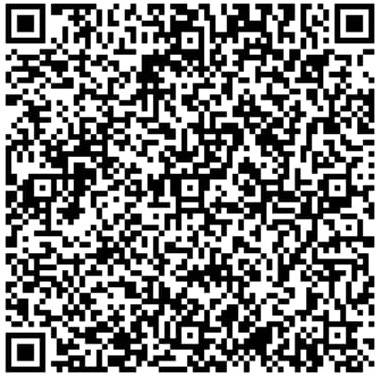
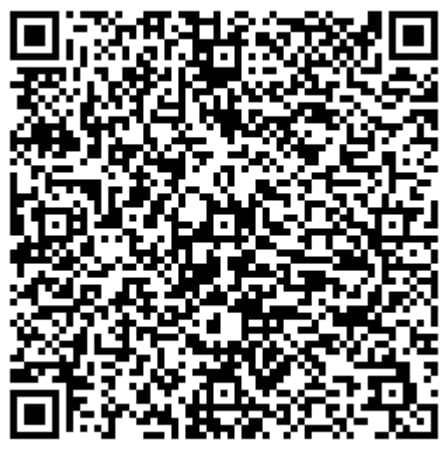
fix: update Pix donation details

diff --git a/index.html b/index.html
@@ -137,7 +137,7 @@
               <div class="support-copy">
                 <p>Se o Open Mic RPG te divertiu, você pode apoiar o projeto com um café.</p>
                 <label for="pixCode">Pix copia e cola</label>
-                <textarea id="pixCode" readonly rows="4">00020126670014br.gov.bcb.pix0123carvalhoillan@gmail.com0218obrigado pelo cafe52040000530398654045.005802BR5919Illan Carvalho Rego6006Brasil622905252026091011344DHLQ3178PYOQ63043B3A</textarea>
+                <textarea id="pixCode" readonly rows="4">00020126680014br.gov.bcb.pix0123carvalhoillan@gmail.com0219obrigado pelo apoio5204000053039865802BR5919Illan Carvalho Rego6006Brasil622905252026091011503B6NUTYMRS0JW63046AE7</textarea>
                 <button id="pixCopyButton" type="button">📋 Copiar código Pix</button>
                 <span id="pixCopyStatus" class="support-status" aria-live="polite"></span>
               </div>
